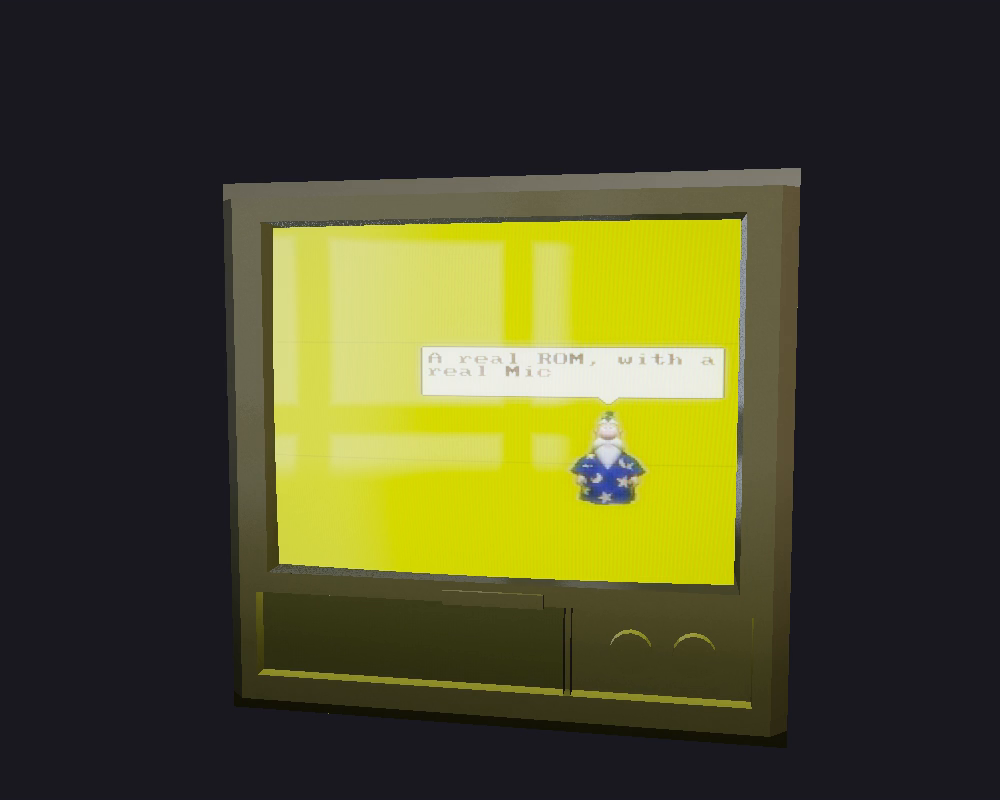
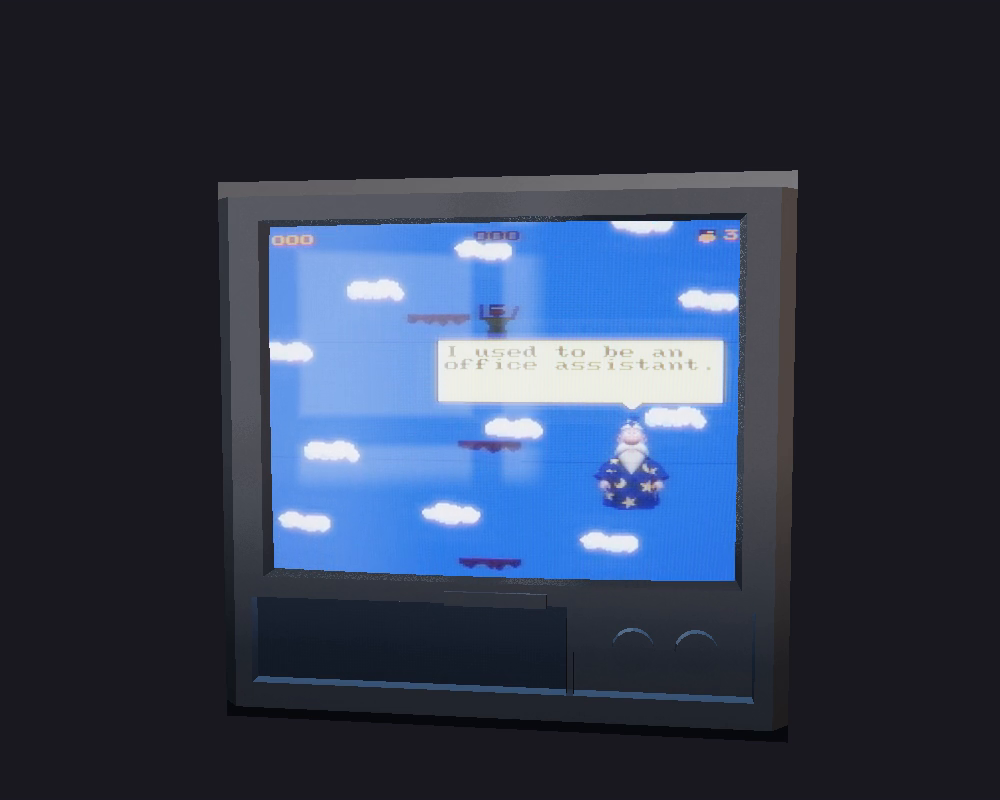
Use gameplay in README screenshot

Changed region(s): [[0.217, 0.2188, 0.806, 0.9375], [0.775, 0.1875, 0.806, 0.2812]]

diff --git a/README.md b/README.md
@@ -10,7 +10,7 @@ you can spin around with the mouse. Not a fullscreen filter. An actual tube, sit
 in your compositor, that you can orbit and zoom until the glare slides across the
 glass the right way.
 
-![A NES ROM run with Merlin, a Microsoft Agent character, rendered inside crtulum's modeled CRT](scratchpad/rom-agent-merlin.png)
+![Falling NES homebrew gameplay with Merlin, a Microsoft Agent character, rendered inside crtulum's modeled CRT](scratchpad/rom-agent-merlin.png)
 
 ## Build & run
 
